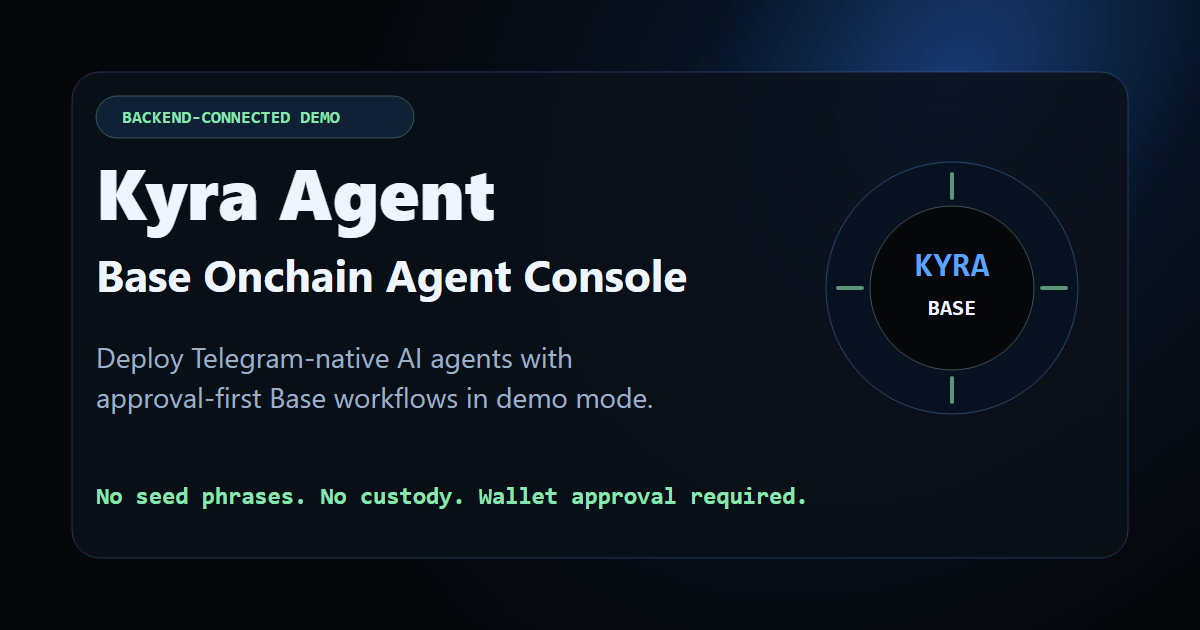
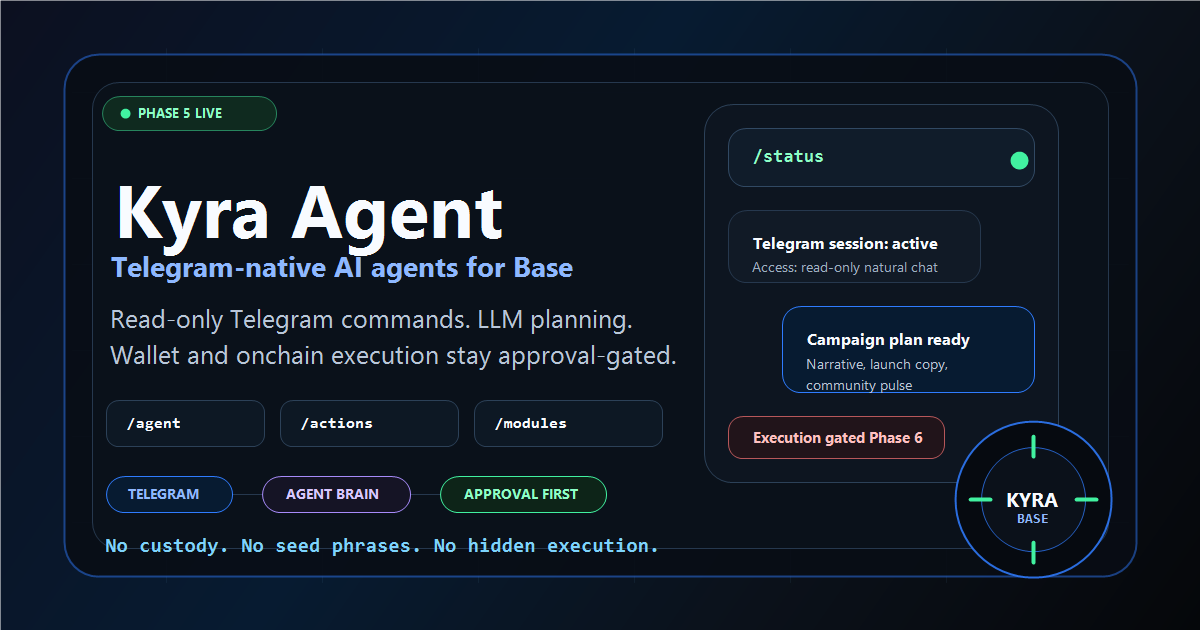
Upgrade Kyra OG card artwork

diff --git a/index.html b/index.html
@@ -21,12 +21,12 @@
       property="og:description"
       content="Deploy Base agents with approval-first workflows. Demo records can persist after sign-in while onchain execution stays simulated."
     />
-    <meta property="og:image" content="https://kyra-agent.netlify.app/og-card.png" />
-    <meta property="og:image:secure_url" content="https://kyra-agent.netlify.app/og-card.png" />
+    <meta property="og:image" content="https://kyraagent.xyz/og-card.png" />
+    <meta property="og:image:secure_url" content="https://kyraagent.xyz/og-card.png" />
     <meta property="og:image:type" content="image/png" />
     <meta property="og:image:width" content="1200" />
     <meta property="og:image:height" content="630" />
-    <meta property="og:image:alt" content="Kyra Agent backend-connected Base agent demo preview." />
+    <meta property="og:image:alt" content="Kyra Agent Telegram and LLM read-only Base agent console preview." />
     <meta name="twitter:card" content="summary_large_image" />
     <meta name="twitter:site" content="@Kyra_Agent" />
     <meta name="twitter:creator" content="@Kyra_Agent" />
@@ -35,8 +35,8 @@
       name="twitter:description"
       content="A backend-connected demo for Base-native AI agents, Telegram commands, and approval-first workflows."
     />
-    <meta name="twitter:image" content="https://kyra-agent.netlify.app/og-card.png" />
-    <meta name="twitter:image:alt" content="Kyra Agent backend-connected Base agent demo preview." />
+    <meta name="twitter:image" content="https://kyraagent.xyz/og-card.png" />
+    <meta name="twitter:image:alt" content="Kyra Agent Telegram and LLM read-only Base agent console preview." />
     <link rel="icon" type="image/png" sizes="256x256" href="/favicon.png" />
     <link rel="apple-touch-icon" sizes="180x180" href="/apple-touch-icon.png" />
     <title>Kyra Agent | Base Onchain Agent Console</title>